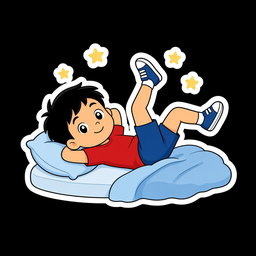
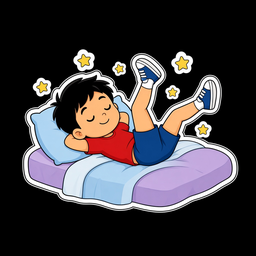
[Cursor] habit: redraw toe 躺卧踩单车 both legs (stamp 20261016f)
Full GenerateImage re-render of img-ca-toe-wiggle — both legs pedaling
in air; ship with whisper mom+child; bump HABIT_MEDIA_V / LOCAL_ASSET_V.

diff --git a/mobile/ios/App/App/public/index.html b/mobile/ios/App/App/public/index.html
@@ -2,7 +2,7 @@
 <html lang="zh-CN">
 <head>
   <meta name="mytimetree-mode" content="local-capacitor" />
-  <meta name="mytimetree-web-build" content="20261016e" />
+  <meta name="mytimetree-web-build" content="20261016f" />
   <meta charset="UTF-8" />
   <meta name="viewport" content="width=device-width, initial-scale=1, maximum-scale=1, user-scalable=no, viewport-fit=cover" />
   <title>MyTimeTree</title>
@@ -328,14 +328,14 @@
   </div>
 
     <script src="./local/sql-wasm.js"></script>
-  <script src="./local/db.js?v=20261016e"></script>
-  <script src="./local/habit-seed.js?v=20261016e"></script>
-  <script src="./local/store.js?v=20261016e"></script>
-  <script src="./local/habits.js?v=20261016e"></script>
-  <script src="./local/bridge.js?v=20261016e"></script>
-  <script src="./local/lock.js?v=20261016e"></script>
+  <script src="./local/db.js?v=20261016f"></script>
+  <script src="./local/habit-seed.js?v=20261016f"></script>
+  <script src="./local/store.js?v=20261016f"></script>
+  <script src="./local/habits.js?v=20261016f"></script>
+  <script src="./local/bridge.js?v=20261016f"></script>
+  <script src="./local/lock.js?v=20261016f"></script>
   <script src="./local/html2canvas.min.js"></script>
-  <script src="./local/share.js?v=20261016e"></script>
-  <script src="./app.js?v=20261016e"></script>
+  <script src="./local/share.js?v=20261016f"></script>
+  <script src="./app.js?v=20261016f"></script>
 </body>
 </html>

diff --git a/src/mytimetree/static/portal/app.js b/src/mytimetree/static/portal/app.js
@@ -53,7 +53,7 @@
     bird: `/static/portal/ornaments/bird.png?v=${ASSET_V}`,
   };
 
-  const HABIT_MEDIA_V = "20261016e";
+  const HABIT_MEDIA_V = "20261016f";
   // Tip: bright star (icon-tip-seed path overwritten; icon-tip-star alias also shipped)
   const HABIT_TIP_ICON = `/static/portal/habit/icon-tip-star.png?v=${HABIT_MEDIA_V}`;
   const HABIT_TIP_ICON_2X = `/static/portal/habit/icon-tip-star@2x.png?v=${HABIT_MEDIA_V}`;

diff --git a/mobile/ios/App/App/public/app.js b/mobile/ios/App/App/public/app.js
@@ -53,7 +53,7 @@
     bird: `./ornaments/bird.png?v=${ASSET_V}`,
   };
 
-  const HABIT_MEDIA_V = "20261016e";
+  const HABIT_MEDIA_V = "20261016f";
   // Tip: bright star (icon-tip-seed path overwritten; icon-tip-star alias also shipped)
   const HABIT_TIP_ICON = `./habit/icon-tip-star.png?v=${HABIT_MEDIA_V}`;
   const HABIT_TIP_ICON_2X = `./habit/icon-tip-star@2x.png?v=${HABIT_MEDIA_V}`;

diff --git a/mobile/ios/App/App/public/local/habit-seed.js b/mobile/ios/App/App/public/local/habit-seed.js
@@ -3,7 +3,7 @@
   "use strict";
   global.MyTimeTreeHabitSeed = {
   "version": 4,
-  "generated_at": "2026-10-16T04:25:40.094Z",
+  "generated_at": "2026-10-16T04:26:54.834Z",
   "templates": [
     {
       "slug": "brush_teeth",

diff --git a/mobile/www-src/local/habit-seed.js b/mobile/www-src/local/habit-seed.js
@@ -3,7 +3,7 @@
   "use strict";
   global.MyTimeTreeHabitSeed = {
   "version": 4,
-  "generated_at": "2026-10-16T04:25:40.094Z",
+  "generated_at": "2026-10-16T04:26:54.834Z",
   "templates": [
     {
       "slug": "brush_teeth",
